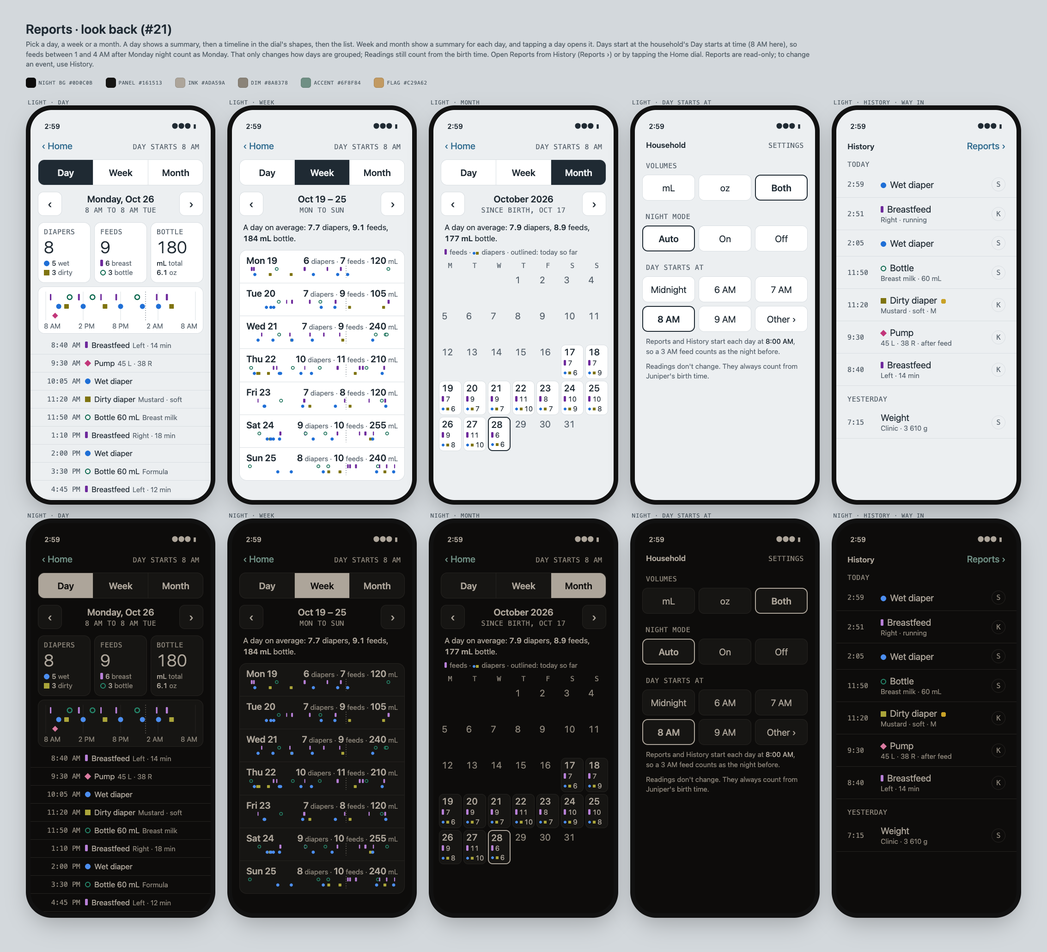
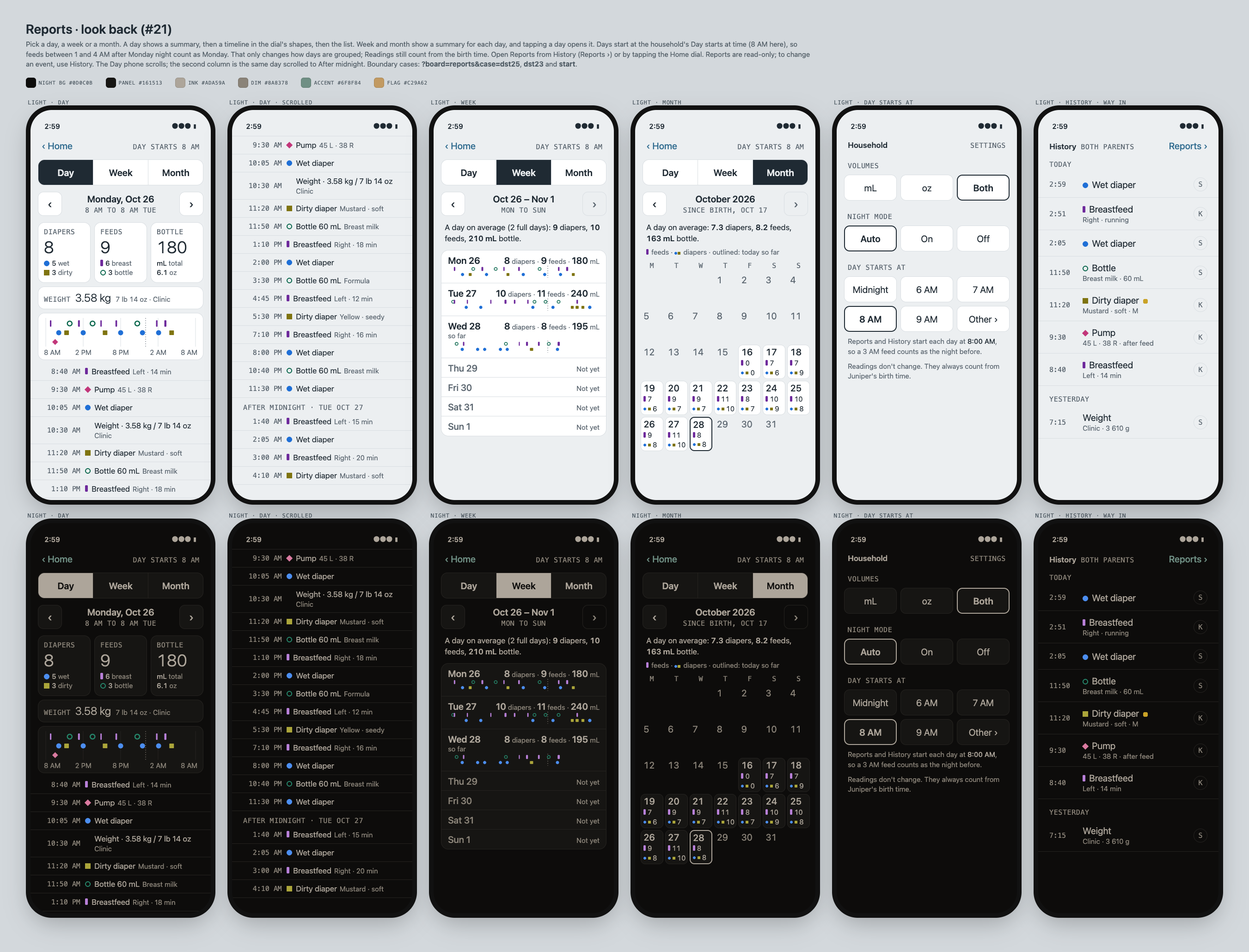
docs/design: Reports review fixes (#21)
- Day phone scrolls; the board adds the same day scrolled to the
  After midnight divider, so the 1:40 and 3:00 AM feeds show.
- Events are real instants in America/New_York and days are cut at
  the day start, so a day can be 23 or 25 hours. ?case=dst25, dst23
  and start show the 25 h day (second 1:30 AM labelled "(2nd)", the
  repeated hour shaded), the 23 h day (no 2 AM), and Day starts at
  8 AM vs Midnight with the 3:00 AM Tuesday feed moving between
  Monday and Tuesday, each in Day and Week.
- Week is Oct 26 – Nov 1, so Monday Oct 26 matches in Day, Week and
  Month. Finished days only count toward the averages.
- Weight: a Day card and a list row, off the timeline (no dial mark),
  not in Week or Month.
- History keeps "Both parents" beside its title. › is disabled on the
  current Week and Month.

Changed region(s): [[0.0, 0.0311, 0.9267, 0.9631], [0.9267, 0.0932, 0.9885, 0.9631]]

diff --git a/docs/design/direction.html b/docs/design/direction.html
@@ -202,6 +202,19 @@ body{background:#D3D8DC;font-family:-apple-system,system-ui,sans-serif;padding:4
 .pairg i{display:inline-block;width:6px;height:6px}
 .note{margin:10px 24px 0;font:400 15px/1.45 -apple-system,system-ui,sans-serif;color:var(--dim)}
 .note b{color:var(--ink);font-weight:500}
+.scr{position:absolute;top:50px;left:0;right:0;bottom:0;overflow-y:auto;scrollbar-width:none;padding-bottom:34px}
+.axis{position:relative;height:20px;margin-top:2px}
+.axis span{position:absolute;transform:translateX(-50%);white-space:nowrap}
+.axis span.l{transform:none;left:0!important}
+.axis span.r{transform:none;left:auto!important;right:0}
+.wcard{display:flex;align-items:baseline;gap:10px;margin:8px 16px 0;padding:10px 12px;background:var(--panel);border:1px solid var(--line);border-radius:14px}
+.wcard b{font:300 24px/1.1 -apple-system,system-ui,sans-serif;white-space:nowrap}
+.wk .h{gap:10px}
+.wk .h .tag{display:block;font:400 15px/1.3 -apple-system,system-ui,sans-serif;color:var(--dim)}
+.wk .fut .h b{color:var(--dim);font-weight:500}
+.rr .t small{display:block;font-size:15px}
+.rr.w .k small{display:block;margin:2px 0 0 20px}
+.rr.hl{box-shadow:inset 0 0 0 2px var(--acc);border-radius:10px}
 </style></head><body>
 <div id="root"></div>
 <script>
@@ -306,7 +319,7 @@ weight:()=>`${sb}${hdrA('Weight','Now · 2:59 AM ›')}
 <div class="keys">${[1,2,3,4,5,6,7,8,9].map(n=>`<div>${n}</div>`).join('')}<div class="ghost">lb/oz</div><div>0</div><div class="ghost">⌫</div></div>
 <div class="go">Log 3 640 g</div>`,
 
-history:()=>`${sb}${hdrA('History','Reports ›')}
+history:()=>`${sb}<div class="top"><b>History <span class="lab" style="margin-left:6px">Both parents</span></b><span class="act">Reports ›</span></div>
 <div class="day lab">Today</div>
 ${[["2:59","wet","Wet diaper","","S"],["2:51","feed","Breastfeed","Right · running","K"],["2:05","wet","Wet diaper","","S"],["11:50","bottle","Bottle","Breast milk · 60 mL","S"],["11:20","dirty","Dirty diaper","Mustard · soft · M","K","#C9A227"],["9:30","pump","Pump","45 L · 38 R · after feed","K"],["8:40","feed","Breastfeed","Left · 14 min","K"]].map(([t,g,k,d,w,c])=>`<div class="ev"><span class="t">${t}</span><span class="k"><i class="g g-${g}" style="margin-right:8px"></i>${k}${c?` <i class="dot" style="background:${c};margin:0 0 0 4px"></i>`:''}${d?`<small>${d}</small>`:''}</span><span class="who">${w}</span></div>`).join('')}
 <div class="day lab">Yesterday</div>
@@ -333,61 +346,105 @@ signin:()=>`${sb}
 <div class="go2">I have an invite</div>
 <div class="go">Sign in with a passkey</div>`,
 };
-// Reports (#21). Fake data. The household day starts at 8 AM, so a report day runs 8:00 AM to 8:00 AM.
-const DS=8, MON=['Jan','Feb','Mar','Apr','May','Jun','Jul','Aug','Sep','Oct','Nov','Dec'], WD=['Sun','Mon','Tue','Wed','Thu','Fri','Sat'];
-const clk=h=>{const c=(h+DS)%24,hh=Math.floor(c),mm=Math.round((c-hh)*60);return`${(hh%12)||12}:${String(mm).padStart(2,'0')} ${hh<12?'AM':'PM'}`};
-const at=t=>{const[h,m]=t.split(':').map(Number);return(h-DS+24)%24+m/60}; // 24 h clock in, hours since day start out
-// Monday Oct 26, by hand: the day in the issue (1-4 AM feeds count as Monday night).
-const MONDAY=[['feed','8:40',14,'Left · 14 min'],['pump','9:30',0,'45 L · 38 R'],['wet','10:05'],['dirty','11:20',0,'Mustard · soft'],['bottle','11:50',60,'Breast milk'],['feed','13:10',18,'Right · 18 min'],['wet','14:00'],['bottle','15:30',60,'Formula'],['feed','16:45',12,'Left · 12 min'],['dirty','17:30',0,'Yellow · seedy'],['feed','19:10',16,'Right · 16 min'],['wet','20:00'],['bottle','22:40',60,'Breast milk'],['wet','23:30'],['feed','1:40',15,'Left · 15 min'],['wet','2:05'],['feed','3:15',20,'Right · 20 min'],['dirty','4:10',0,'Mustard · soft']]
- .map(([ev,t,v,d])=>({ev,h:at(t),v,d}));
+// Reports (#21). Fake data. Every event is a real instant, and days are cut at the household's day start in America/New_York,
+// so a day can be 23 or 25 hours. ?case=dst25|dst23|start shows the boundary cases.
+const TZ='America/New_York',HR=36e5,MON=['Jan','Feb','Mar','Apr','May','Jun','Jul','Aug','Sep','Oct','Nov','Dec'],WD=['Sun','Mon','Tue','Wed','Thu','Fri','Sat'],WDL=['Sunday','Monday','Tuesday','Wednesday','Thursday','Friday','Saturday'];
+const WF=new Intl.DateTimeFormat('en-US',{timeZone:TZ,hourCycle:'h23',year:'numeric',month:'numeric',day:'numeric',hour:'numeric',minute:'numeric'});
+const wall=t=>{const p={};WF.formatToParts(t).forEach(x=>p[x.type]=x.value);const w={y:+p.year,mo:+p.month,d:+p.day,h:+p.hour%24,mi:+p.minute};w.wd=WD[new Date(Date.UTC(w.y,w.mo-1,w.d)).getUTCDay()];return w};
+const off=t=>{const w=wall(t);return Date.UTC(w.y,w.mo-1,w.d,w.h,w.mi)-Math.floor(t/6e4)*6e4};
+// Wall time to instant. A repeated time (clocks back) gives the first one, or the second with n=2. A skipped time moves forward.
+function zoned(y,mo,d,h=0,mi=0,n=1){const u=new Date(Date.UTC(y,mo-1,d));[y,mo,d]=[u.getUTCFullYear(),u.getUTCMonth()+1,u.getUTCDate()];
+ const g=Date.UTC(y,mo-1,d,h,mi),c=[...new Set([off(g-12*HR),off(g+12*HR)])].map(o=>g-o).filter(t=>{const w=wall(t);return w.d===d&&w.h===h&&w.mi===mi}).sort((a,b)=>a-b);
+ return c.length?c[Math.min(n,c.length)-1]:g-off(g-12*HR)}
+const ymd=s=>s.split('-').map(Number);
+const win=(y,mo,d,ds)=>[zoned(y,mo,d,ds),zoned(y,mo,d+1,ds)]; // a report day: [start, next start)
+const ampm=w=>`${(w.h%12)||12}${w.mi?':'+String(w.mi).padStart(2,'0'):''} ${w.h<12?'AM':'PM'}`;
+const clk=t=>{const w=wall(t);return`${(w.h%12)||12}:${String(w.mi).padStart(2,'0')} ${w.h<12?'AM':'PM'}${zoned(w.y,w.mo,w.d,w.h,w.mi)!==t?'<small> (2nd)</small>':''}`};
+const BIRTH=zoned(2026,10,17,6,42);
+let NOW=zoned(2026,10,29,3,0),CASE='';
+// Hand fixtures are written by the 8 AM convention: a time before 8 AM is the next calendar morning. '1:30#2' is the second 1:30.
+const fix=(y,mo,d,L)=>L.map(([ev,tm,v,dd,hl])=>{const[a,n]=tm.split('#'),[h,mi]=a.split(':').map(Number);return{ev,t:zoned(y,mo,h<8?d+1:d,h,mi,+n||1),v,d:dd,hl}});
+// Monday Oct 26: the day in the issue (1-4 AM feeds count as Monday night). The 3:00 AM feed is the one ?case=start follows.
+const HAND={'2026-10-26':fix(2026,10,26,[['feed','8:40',14,'Left · 14 min'],['pump','9:30',83,'45 L · 38 R'],['wet','10:05'],['weight','10:30',3580,'Clinic'],['dirty','11:20',0,'Mustard · soft'],['bottle','11:50',60,'Breast milk'],['feed','13:10',18,'Right · 18 min'],['wet','14:00'],['bottle','15:30',60,'Formula'],['feed','16:45',12,'Left · 12 min'],['dirty','17:30',0,'Yellow · seedy'],['feed','19:10',16,'Right · 16 min'],['wet','20:00'],['bottle','22:40',60,'Breast milk'],['wet','23:30'],['feed','1:40',15,'Left · 15 min'],['wet','2:05'],['feed','3:00',20,'Right · 20 min',1],['dirty','4:10',0,'Mustard · soft']]),
+// Sat Oct 31: clocks go back at 2 AM Sunday, so this day is 25 h and 1:30 AM happens twice.
+'2026-10-31':fix(2026,10,31,[['feed','8:20',16,'Left · 16 min'],['wet','9:40'],['bottle','11:00',60,'Breast milk'],['feed','12:15',14,'Right · 14 min'],['dirty','13:30',0,'Mustard · seedy'],['feed','15:00',18,'Left · 18 min'],['wet','16:10'],['bottle','17:45',75,'Formula'],['feed','19:20',15,'Right · 15 min'],['wet','20:30'],['feed','22:10',17,'Left · 17 min'],['wet','23:40'],['feed','1:30',15,'Right · 15 min'],['wet','1:30#2'],['feed','3:40',16,'Left · 16 min'],['dirty','5:30',0,'Yellow · soft'],['bottle','6:50',60,'Breast milk']]),
+// Sat Mar 13 2027: clocks go forward at 2 AM Sunday, so this day is 23 h and there is no 2 AM hour.
+'2027-03-13':fix(2027,3,13,[['bottle','8:10',150,'Breast milk'],['wet','9:00'],['feed','11:30',12,'Left · 12 min'],['dirty','12:40',0,'Brown · soft'],['bottle','14:00',180,'Formula'],['wet','15:10'],['feed','17:30',10,'Right · 10 min'],['wet','18:20'],['bottle','20:00',180,'Formula'],['wet','21:10'],['feed','23:30',14,'Left · 14 min'],['feed','1:50',10,'Right · 10 min'],['wet','3:10'],['bottle','6:30',150,'Breast milk'],['wet','7:30']])};
 function rng(seed){return()=>{seed|=0;seed=seed+0x6D2B79F5|0;let t=Math.imul(seed^seed>>>15,1|seed);t=t+Math.imul(t^t>>>7,61|t)^t;return((t^t>>>14)>>>0)/4294967296}}
-function dayEvents(d){ // d = day of October 2026
- if(d===26)return MONDAY; if(d<17||d>28)return null;
- const r=rng(d*7919),n=(a,b)=>a+Math.floor(r()*(b-a+1)),end=d===28?19:24,out=[];
- const put=(ev,k,f)=>{for(let i=0;i<k;i++){const h=r()*end;out.push({ev,h,...f()})}};
- put('feed',Math.round(n(5,7)*end/24),()=>({v:n(10,22)}));put('bottle',Math.round(n(2,4)*end/24),()=>({v:[45,60,60,75][n(0,3)]}));
- put('wet',Math.round((d<22?n(3,5):n(5,7))*end/24),()=>({}));put('dirty',Math.round(n(2,4)*end/24),()=>({}));
- if(r()<.6)put('pump',1,()=>({v:n(60,90)}));
- return out.sort((a,b)=>a.h-b.h)}
-const tally=E=>{const c={feed:0,bottle:0,wet:0,dirty:0,pump:0,ml:0,pml:0};E.forEach(e=>{c[e.ev]++;if(e.ev==='bottle')c.ml+=e.v;if(e.ev==='pump')c.pml+=e.v||83});return c};
-// Timeline in the dial's shapes. Feed bars (length = duration) and bottle rings share the top lane, like the dial's outer ring; wet dots and dirty squares share the next, like its inner ring. Pump gets its own lane.
-function strip(E,W,mini){const H=mini?26:62,x=h=>4+h/24*(W-8),y=mini?{feed:7,bottle:7,wet:19,dirty:19,pump:19}:{feed:12,bottle:12,wet:32,dirty:32,pump:52};
- let s=`<line x1="${x(16)}" y1="0" x2="${x(16)}" y2="${H}" stroke="var(--dim)" stroke-width="1" stroke-dasharray="2 3"/>`;
- if(!mini)[0,6,12,18,24].forEach(h=>s+=`<line x1="${x(h)}" y1="0" x2="${x(h)}" y2="${H}" stroke="var(--line)" stroke-width="1"/>`);
+function authored(y,mo,d){const u=new Date(Date.UTC(y,mo-1,d));[y,mo,d]=[u.getUTCFullYear(),u.getUTCMonth()+1,u.getUTCDate()];
+ const k=`${y}-${String(mo).padStart(2,'0')}-${String(d).padStart(2,'0')}`;if(HAND[k])return HAND[k];
+ const[s,e]=win(y,mo,d,8);if(e<=BIRTH)return[];const old=y>2026;
+ const r=rng(d*7919+((y-2026)*12+mo-10)*104729),n=(a,b)=>a+Math.floor(r()*(b-a+1)),out=[];
+ const put=(ev,k,f)=>{for(let i=0;i<k;i++){const t=s+Math.floor(r()*(e-s)/6e4)*6e4;out.push({ev,t,...f()})}};
+ put('feed',old?n(3,5):n(5,7),()=>{const v=n(10,22);return{v,d:`${v%2?'Left':'Right'} · ${v} min`}});put('bottle',old?n(3,5):n(2,4),()=>{const v=old?[150,180,180,210][n(0,3)]:[45,60,60,75][n(0,3)];return{v,d:v%60?'Formula':'Breast milk'}});
+ put('wet',d<22&&!old?n(3,5):n(5,7),()=>({}));put('dirty',old?n(1,2):n(2,4),()=>({}));
+ if(r()<.6)put('pump',1,()=>({v:n(60,90)}));return out}
+// Events in [s,e), whichever day they were written under, logged before now and after birth.
+const between=(s,e)=>{const a=wall(s),out=[];for(let i=-1;i<=Math.ceil((e-s)/864e5)+1;i++)out.push(...authored(a.y,a.mo,a.d+i));return out.filter(x=>x.t>=s&&x.t<e&&x.t<NOW&&x.t>=BIRTH).sort((p,q)=>p.t-q.t)};
+const tally=E=>{const c={feed:0,bottle:0,wet:0,dirty:0,pump:0,ml:0,pml:0,weight:null};E.forEach(e=>{if(e.ev==='weight'){c.weight=e;return}c[e.ev]++;if(e.ev==='bottle')c.ml+=e.v;if(e.ev==='pump')c.pml+=e.v});return c};
+const kg=g=>(g/1000).toFixed(2),lbOz=g=>{let o=Math.round(g/28.3495),l=Math.floor(o/16);return`${l} lb ${o-l*16} oz`};
+const hrs=(s,e)=>Math.round((e-s)/HR);
+const shift=(s,e)=>{for(let t=s+HR;t<e;t+=HR)if(off(t)!==off(s))return t;return 0}; // when the clocks changed, if they did
+const midnight=(s,e)=>{const w=wall(s),m=zoned(w.y,w.mo,w.d+1,0);return m>s&&m<e?m:0};
+// Timeline in the dial's shapes. x is real elapsed time, so a 25 h day has 25 equal hours. Feed bars (length = duration) and bottle rings
+// share the top lane, like the dial's outer ring; wet dots and dirty squares share the next, like its inner ring. Pump gets its own lane.
+// Weight has no dial mark, so it stays off the timeline and shows as a card and a list row.
+function strip(E,s,e,ds,W,mini){const H=mini?26:62,x=t=>4+(t-s)/(e-s)*(W-8),y=mini?{feed:7,bottle:7,wet:19,dirty:19,pump:19}:{feed:12,bottle:12,wet:32,dirty:32,pump:52};
+ let o='';const m=midnight(s,e),sh=shift(s,e),back=sh&&off(sh)<off(s);
+ if(sh&&back)o+=`<rect x="${x(sh)}" y="0" width="${x(sh+HR)-x(sh)}" height="${H}" fill="var(--band)"/>`;
+ if(m)o+=`<line x1="${x(m)}" y1="0" x2="${x(m)}" y2="${H}" stroke="var(--dim)" stroke-width="1" stroke-dasharray="2 3"/>`;
+ const sw=wall(s),ticks=[0,6,12,18].map(k=>zoned(sw.y,sw.mo,sw.d+Math.floor((ds+k)/24),(ds+k)%24)).concat(e);
+ if(!mini)ticks.forEach(t=>o+=`<line x1="${x(t)}" y1="0" x2="${x(t)}" y2="${H}" stroke="var(--line)" stroke-width="1"/>`);
+ if(sh&&!back&&!mini)o+=`<line x1="${x(sh)}" y1="0" x2="${x(sh)}" y2="${H}" stroke="var(--ink)" stroke-width="1.5"/>`;
  const k=mini?.62:1;
- E.forEach(e=>{const X=x(e.h),Y=y[e.ev];
-  if(e.ev==='feed')s+=`<rect x="${X}" y="${Y-7*k}" width="${Math.max(3*k,e.v/60/24*(W-8))}" height="${14*k}" rx="1.5" fill="var(--feed)"/>`;
-  if(e.ev==='bottle')s+=`<circle cx="${X}" cy="${Y}" r="${5*k}" fill="var(--panel)" stroke="var(--bottle)" stroke-width="${2.5*k}"/>`;
-  if(e.ev==='wet')s+=`<circle cx="${X}" cy="${Y}" r="${5.5*k}" fill="var(--wet)"/>`;
-  if(e.ev==='dirty')s+=`<rect x="${X-5*k}" y="${Y-5*k}" width="${10*k}" height="${10*k}" rx="1" fill="var(--dirty)"/>`;
-  if(e.ev==='pump'&&!mini)s+=`<rect x="${X-4.5}" y="${Y-4.5}" width="9" height="9" fill="var(--pump)" transform="rotate(45 ${X} ${Y})"/>`});
- const ax=mini?'':`<div style="display:flex;justify-content:space-between;margin-top:2px" class="sub">${['8 AM','2 PM','8 PM','2 AM','8 AM'].map(l=>`<span>${l}</span>`).join('')}</div>`;
- return `<svg viewBox="0 0 ${W} ${H}" height="${H}">${s}</svg>${ax}`}
-const rHdr=r=>hdrA('‹ Home',r,1).replace(`<span class="act">${r}</span>`,`<span class="lab">${r}</span>`);
+ E.forEach(ev=>{const X=x(ev.t),Y=y[ev.ev];
+  if(ev.ev==='feed')o+=`<rect x="${X}" y="${Y-7*k}" width="${Math.max(3*k,ev.v*6e4/(e-s)*(W-8))}" height="${14*k}" rx="1.5" fill="var(--feed)"/>`;
+  if(ev.ev==='bottle')o+=`<circle cx="${X}" cy="${Y}" r="${5*k}" fill="var(--panel)" stroke="var(--bottle)" stroke-width="${2.5*k}"/>`;
+  if(ev.ev==='wet')o+=`<circle cx="${X}" cy="${Y}" r="${5.5*k}" fill="var(--wet)"/>`;
+  if(ev.ev==='dirty')o+=`<rect x="${X-5*k}" y="${Y-5*k}" width="${10*k}" height="${10*k}" rx="1" fill="var(--dirty)"/>`;
+  if(ev.ev==='pump'&&!mini)o+=`<rect x="${X-4.5}" y="${Y-4.5}" width="9" height="9" fill="var(--pump)" transform="rotate(45 ${X} ${Y})"/>`});
+ const ax=mini?'':`<div class="axis sub">${ticks.map((t,i)=>`<span style="left:${x(t)/W*100}%" class="${i?i==4?'r':'':'l'}">${ampm(wall(t))}</span>`).join('')}</div>`;
+ return `<svg viewBox="0 0 ${W} ${H}" height="${H}">${o}</svg>${ax}`}
+const dsLab=ds=>ds?`Day starts ${ds} AM`:'Day starts midnight';
+const rHdr=ds=>hdrA('‹ Home',dsLab(ds),1).replace(`<span class="act">${dsLab(ds)}</span>`,`<span class="lab">${dsLab(ds)}</span>`);
 const seg3=on=>`<div class="seg">${['Day','Week','Month'].map(t=>`<div class="${t===on?'on':''}">${t}</div>`).join('')}</div>`;
 const step=(t,sub,next=true)=>`<div class="rp-step"><div class="arr">‹</div><div class="d"><b>${t}</b><span class="lab">${sub}</span></div><div class="arr ${next?'':'off'}">›</div></div>`;
 const per=(v,n)=>(Math.round(v/n*10)/10).toString();
+const today=ds=>{const w=wall(NOW);return w.h<ds?[w.y,w.mo,w.d-1]:[w.y,w.mo,w.d]};
+// The Day phone scrolls. data-scroll picks a resting position for the static captures.
+const scr=(body,at)=>`<div class="scr" data-scroll="${at||''}">${body}</div>`;
 Object.assign(S,{
-rDay:()=>{const c=tally(MONDAY);let after=false;
- return `${sb}${rHdr('Day starts 8 AM')}${seg3('Day')}${step('Monday, Oct 26','8 AM to 8 AM Tue')}
+rDay:(date='2026-10-26',ds='8',at='')=>{ds=+ds;const[y,mo,d]=ymd(date),[s,e]=win(y,mo,d,ds),E=between(s,e),c=tally(E),m=midnight(s,e),sh=shift(s,e),L=hrs(s,e),ew=wall(e),sw=wall(s);
+ const sub=(ds?`${ampm(sw)} to ${ampm(ew)} ${ew.wd}`:'Midnight to midnight')+(L!==24?` · ${L} h`:'');
+ let after=false,shown=false;
+ return `${sb}`+scr(`${rHdr(ds)}${seg3('Day')}${step(`${WDL[new Date(Date.UTC(y,mo-1,d)).getUTCDay()]}, ${MON[mo-1]} ${d}`,sub)}
 <div class="sum"><div><span class="lab">Diapers</span><div class="n">${c.wet+c.dirty}</div><div class="sub"><i class="g g-wet"></i><b>${c.wet}</b> wet<br><i class="g g-dirty"></i><b>${c.dirty}</b> dirty</div></div>
 <div><span class="lab">Feeds</span><div class="n">${c.feed+c.bottle}</div><div class="sub"><i class="g g-feed"></i><b>${c.feed}</b> breast<br><i class="g g-bottle"></i><b>${c.bottle}</b> bottle</div></div>
 <div><span class="lab">Bottle</span><div class="n">${c.ml}</div><div class="sub"><b>mL</b> total<br><b>${(c.ml/29.57).toFixed(1)}</b> oz</div></div></div>
-<div class="strip">${strip(MONDAY,332)}</div>
-<div style="margin-top:6px">${MONDAY.map(e=>{let pre='';if(!after&&e.h>=16){after=true;pre=`<div class="after lab">After midnight · Tue Oct 27</div>`}
- const name={feed:'Breastfeed',bottle:`Bottle ${e.v} mL`,wet:'Wet diaper',dirty:'Dirty diaper',pump:'Pump'}[e.ev];
- return pre+`<div class="rr"><span class="t">${clk(e.h)}</span><span class="k"><i class="g g-${e.ev}"></i>${name}${e.d?`<small>${e.d}</small>`:''}</span></div>`}).join('')}</div>`},
-rWeek:()=>{const days=[19,20,21,22,23,24,25].map(d=>({d,E:dayEvents(d)})),T=days.map(x=>tally(x.E)),sum=k=>T.reduce((a,c)=>a+c[k],0);
- return `${sb}${rHdr('Day starts 8 AM')}${seg3('Week')}${step('Oct 19 – 25','Mon to Sun')}
-<div class="avg">A day on average: <b>${per(sum('wet')+sum('dirty'),7)}</b> diapers, <b>${per(sum('feed')+sum('bottle'),7)}</b> feeds, <b>${Math.round(sum('ml')/7)} mL</b> bottle.</div>
-<div class="wk">${days.map(({d,E},i)=>{const c=T[i];return`<div><div class="h"><b>${WD[new Date(2026,9,d).getDay()]} ${d}</b><span class="sub"><b>${c.wet+c.dirty}</b> diapers · <b>${c.feed+c.bottle}</b> feeds · <b>${c.ml}</b> mL</span></div>${strip(E,326,1)}</div>`}).join('')}</div>`},
-rMonth:()=>{const lead=(new Date(2026,9,1).getDay()+6)%7,cells=[];
+${c.weight?`<div class="wcard"><span class="lab">Weight</span><b class="num">${kg(c.weight.v)} kg</b><span class="sub">${lbOz(c.weight.v)} · ${c.weight.d}</span></div>`:''}
+<div class="strip">${strip(E,s,e,ds,332)}</div>
+${sh?`<div class="note">${off(sh)<off(s)?'Clocks went back at 2 AM, so 1 AM to 2 AM happened twice. The shaded hour is the second one.':'Clocks went forward at 2 AM (solid line). There was no 2 AM hour.'}</div>`:''}
+<div style="margin-top:6px">${E.map(ev=>{let pre='';const mw=m&&wall(m);
+ if(m&&!after&&ev.t>=m){after=true;pre=`<div class="after lab">After midnight · ${mw.wd} ${MON[mw.mo-1]} ${mw.d}</div>`}
+ if(sh&&!shown&&ev.t>=sh){shown=true;pre+=`<div class="after lab">${off(sh)<off(s)?'Clocks went back · 1 AM again':'Clocks went forward · no 2 AM'}</div>`}
+ const name={feed:'Breastfeed',bottle:`Bottle ${ev.v} mL`,wet:'Wet diaper',dirty:'Dirty diaper',pump:'Pump',weight:`Weight · ${ev.v&&kg(ev.v)} kg / ${ev.v&&lbOz(ev.v)}`}[ev.ev];
+ return pre+`<div class="rr${ev.hl&&CASE==='start'?' hl':''}${ev.ev==='weight'?' w':''}"><span class="t">${clk(ev.t)}</span><span class="k"><i class="g g-${ev.ev}"></i>${name}${ev.d?`<small>${ev.d}</small>`:''}</span></div>`}).join('')}</div>`,at)},
+rWeek:(date='2026-10-26',ds='8')=>{ds=+ds;const[y,mo,d]=ymd(date),days=[0,1,2,3,4,5,6].map(i=>{const[s,e]=win(y,mo,d+i,ds),w=wall(zoned(y,mo,d+i,12));return{w,s,e,E:between(s,e)}}),
+ done=days.filter(x=>x.e<=NOW),T=done.map(x=>tally(x.E)),sum=k=>T.reduce((a,c)=>a+c[k],0),n=T.length,l=days[6].w;
+ const range=`${MON[mo-1]} ${d} – ${l.mo!==mo?MON[l.mo-1]+' ':''}${l.d}`;
+ return `${sb}`+scr(`${rHdr(ds)}${seg3('Week')}${step(range,'Mon to Sun',days[6].e<=NOW)}
+<div class="avg">A day on average${n<7?` (${n} full ${n==1?'day':'days'})`:''}: <b>${per(sum('wet')+sum('dirty'),n)}</b> diapers, <b>${per(sum('feed')+sum('bottle'),n)}</b> feeds, <b>${Math.round(sum('ml')/n)} mL</b> bottle.</div>
+<div class="wk">${days.map(({w,s,e,E})=>{const c=tally(E),L=hrs(s,e),lab=`${w.wd} ${w.d}`;
+ if(s>=NOW)return`<div class="fut"><div class="h"><b>${lab}</b><span class="sub">Not yet</span></div></div>`;
+ const tag=[e>NOW?'so far':'',L!==24?`${L} h`:''].filter(Boolean).join(' · ');
+ return`<div><div class="h"><b>${lab}${tag?`<span class="tag">${tag}</span>`:''}</b><span class="sub"><b>${c.wet+c.dirty}</b> diapers · <b>${c.feed+c.bottle}</b> feeds · <b>${c.ml}</b> mL</span></div>${strip(E,s,e,ds,326,1)}</div>`}).join('')}</div>`)},
+rMonth:()=>{const lead=(new Date(2026,9,1).getDay()+6)%7,cells=[],[ty,tm,td]=today(8);
  for(let i=0;i<lead;i++)cells.push('<div class="c x"></div>');
- const T=[];for(let d=1;d<=31;d++){const E=dayEvents(d);if(!E){cells.push(`<div class="c x"><b>${d}</b></div>`);continue}
-  const c=tally(E);if(d<28)T.push(c);
-  cells.push(`<div class="c ${d===28?'today':''}"><b>${d}</b><span><i class="g g-feed" style="height:12px;width:5px"></i>${c.feed+c.bottle}</span><span><span class="pairg"><i style="background:var(--wet);border-radius:50%"></i><i style="background:var(--dirty)"></i></span>${c.wet+c.dirty}</span></div>`)}
+ const T=[];for(let d=1;d<=31;d++){const[s,e]=win(2026,10,d,8);if(e<=BIRTH||s>=NOW){cells.push(`<div class="c x"><b>${d}</b></div>`);continue}
+  const c=tally(between(s,e));if(e<=NOW)T.push(c);const now=ty===2026&&tm===10&&td===d;
+  cells.push(`<div class="c ${now?'today':''}"><b>${d}</b><span><i class="g g-feed" style="height:12px;width:5px"></i>${c.feed+c.bottle}</span><span><span class="pairg"><i style="background:var(--wet);border-radius:50%"></i><i style="background:var(--dirty)"></i></span>${c.wet+c.dirty}</span></div>`)}
  const sum=k=>T.reduce((a,c)=>a+c[k],0),n=T.length;
- return `${sb}${rHdr('Day starts 8 AM')}${seg3('Month')}${step('October 2026','Since birth, Oct 17',true)}
+ return `${sb}${rHdr(8)}${seg3('Month')}${step('October 2026','Since birth, Oct 17',false)}
 <div class="avg">A day on average: <b>${per(sum('wet')+sum('dirty'),n)}</b> diapers, <b>${per(sum('feed')+sum('bottle'),n)}</b> feeds, <b>${Math.round(sum('ml')/n)} mL</b> bottle.</div>
 <div class="note" style="margin-top:6px"><i class="g g-feed" style="height:12px;width:5px;margin-right:6px"></i>feeds · <span class="pairg" style="margin-right:6px"><i style="background:var(--wet);border-radius:50%"></i><i style="background:var(--dirty)"></i></span>diapers · outlined: today so far</div>
 <div class="cal">${['M','T','W','T','F','S','S'].map(w=>`<div class="wd">${w}</div>`).join('')}${cells.join('')}</div>`},
@@ -404,10 +461,19 @@ function gauges(){return [["Wet diapers","7",[50,100],72,"6+ from day 5"],["Dirt
 const BOARDS={
  home:{h:"Home · glanceable (#20)",s:"Owner feedback after real-phone use: the dial read as black and white, the labels were too small, and the buttons should say when each thing was last logged. Each event type now has its own saturated colour and its own shape (feed bar, bottle ring, wet dot, dirty square), so the dial still reads without colour. Night colours are outlines and marks, never fills, and none is brighter than the night text. Buttons carry a coloured outline, the time since the last log, and the last side for Feed and Pump. Anything tappable is 20 px; no text is under 15 px, and all text passes 4.5:1.",cols:[["Home · idle","home","home"],["Home · feeding","homeFeeding","homeFeeding"]]},
  core:{h:"Instrument · core screens",cols:[["Home · 24 h dial","home","home"],["Breastfeed timer","feed","feed"],["Diaper 1 · color","diaperColor","diaperColor"],["Diaper 2 · details","diaperDetails","diaperDetails"],["Bottle","bottle","bottle"],["Readings","readingsFlag","readingsOk"],["Why?","why","why"]]},
- reports:{h:"Reports · look back (#21)",s:"Pick a day, a week or a month. A day shows a summary, then a timeline in the dial's shapes, then the list. Week and month show a summary for each day, and tapping a day opens it. Days start at the household's Day starts at time (8 AM here), so feeds between 1 and 4 AM after Monday night count as Monday. That only changes how days are grouped; Readings still count from the birth time. Open Reports from History (Reports ›) or by tapping the Home dial. Reports are read-only; to change an event, use History.",cols:[["Day","rDay","rDay"],["Week","rWeek","rWeek"],["Month","rMonth","rMonth"],["Day starts at","rStart","rStart"],["History · way in","history","history"]]},
+ reports:{h:"Reports · look back (#21)",s:"Pick a day, a week or a month. A day shows a summary, then a timeline in the dial's shapes, then the list. Week and month show a summary for each day, and tapping a day opens it. Days start at the household's Day starts at time (8 AM here), so feeds between 1 and 4 AM after Monday night count as Monday. That only changes how days are grouped; Readings still count from the birth time. Open Reports from History (Reports ›) or by tapping the Home dial. Reports are read-only; to change an event, use History. The Day phone scrolls; the second column is the same day scrolled to After midnight. Boundary cases: <b>?board=reports&amp;case=dst25</b>, <b>dst23</b> and <b>start</b>.",cols:[["Day","rDay","rDay"],["Day · scrolled","rDay|2026-10-26|8|after","rDay|2026-10-26|8|after"],["Week","rWeek","rWeek"],["Month","rMonth","rMonth"],["Day starts at","rStart","rStart"],["History · way in","history","history"]]},
  rest:{h:"Instrument · remaining screens",cols:[["Pump","pump","pump"],["Weight","weight","weight"],["History","history","history"],["Add a baby","addBaby","addBaby"],["Household","settings","settings"],["Sign in","signin","signin"]]},
 };
-const Q=new URLSearchParams(location.search), which=Q.get('board')||'core', B=BOARDS[which];
+// Reports boundary cases. Each is its own fixture date, with its own "now".
+const CASES={
+ dst25:{now:zoned(2026,11,2,12),h:"Reports · 25-hour day (#21)",s:"Clocks go back at 2 AM on Sunday Nov 1, so with Day starts at 8 AM, Saturday Oct 31 runs 8 AM Saturday to 8 AM Sunday: 25 hours. The timeline gives every real hour the same width and shades the repeated hour. In the list the second 1:30 AM reads \"1:30 AM (2nd)\". In Week, the row says 25 h and its mini timeline spans its own 25 hours. Viewed on Mon Nov 2, so the whole week has happened; Mon Oct 26 is the same day as on the main board.",cols:[["Day · Sat Oct 31","rDay|2026-10-31|8","rDay|2026-10-31|8"],["Day · repeated hour","rDay|2026-10-31|8|after","rDay|2026-10-31|8|after"],["Week · Oct 26 – Nov 1","rWeek|2026-10-26|8","rWeek|2026-10-26|8"]]},
+ dst23:{now:zoned(2027,3,15,12),h:"Reports · 23-hour day (#21)",s:"Clocks go forward at 2 AM on Sunday Mar 14, 2027, so Saturday Mar 13 runs 8 AM to 8 AM Sunday: 23 hours. There is no 2 AM hour: a 1:50 AM feed is followed 20 minutes later by a 3:10 AM diaper. The timeline marks the jump with a solid line, and the axis tick that would be 2 AM reads 3 AM.",cols:[["Day · Sat Mar 13","rDay|2027-03-13|8","rDay|2027-03-13|8"],["Day · skipped hour","rDay|2027-03-13|8|after","rDay|2027-03-13|8|after"],["Week · Mar 8 – 14","rWeek|2027-03-08|8","rWeek|2027-03-08|8"]]},
+ start:{h:"Reports · Day starts at, 8 AM vs midnight (#21)",s:"The outlined row is the 3:00 AM feed on Tuesday Oct 27. With Day starts at 8 AM it belongs to Monday Oct 26, under After midnight. With Midnight it belongs to Tuesday, and Monday ends at 11:59 PM without it. Week moves the same events between rows: Monday loses its early-morning events and gains Sunday night's. Readings are not affected by this setting.",cols:[["Day · 8 AM · Mon Oct 26","rDay|2026-10-26|8|hl","rDay|2026-10-26|8|hl"],["Day · midnight · Mon Oct 26","rDay|2026-10-26|0|end","rDay|2026-10-26|0|end"],["Day · midnight · Tue Oct 27","rDay|2026-10-27|0|hl","rDay|2026-10-27|0|hl"],["Week · 8 AM","rWeek|2026-10-26|8","rWeek|2026-10-26|8"],["Week · midnight","rWeek|2026-10-26|0","rWeek|2026-10-26|0"]]},
+};
+const Q=new URLSearchParams(location.search), which=Q.get('board')||'core';
+let B=BOARDS[which];
+if(which=='reports'&&CASES[Q.get('case')]){CASE=Q.get('case');const C=CASES[CASE];if(C.now)NOW=C.now;B={...B,...C}}
+const view=k=>{const[n,...a]=k.split('|');return S[n](...a)};
 const pal=which=='home'
  ?[["Feed","#6E2A9C","#B880D8"],["Bottle","#08664C","#25876B"],["Wet","#1F6FD6","#4C8EF0"],["Dirty","#7F7410","#ABA53A"],["Pump","#C2367A","#DA7AA0"]]
  :[["Night bg","#0D0C0B"],["Panel","#161513"],["Ink","#ADA59A"],["Dim","#8A8378"],["Accent","#6F8F84"],["Flag","#C29A62"]];
@@ -416,5 +482,8 @@ if(Q.get('cvd')=='deut'){document.body.insertAdjacentHTML('beforeend',`<svg widt
 document.getElementById('root').innerHTML=`<div class="board-h">${B.h}</div>
 <div class="board-s">${B.s||`Direction C, revised. Kept: the 24-hour dial and the instrument feel. Night mode is now graphite instead of red: warm near-black, dim stone text, a muted sage accent, and nothing brighter than it needs to be. Every screen does one job. Diapers take two steps: tap a color to log, add details only if you want. Wet still logs in one tap from home. Stool swatches stay true-color in every mode.`}${Q.get('cvd')=='deut'?' <b>Deuteranopia simulation.</b>':''}</div>
 <div class="palette">${pal.map(([n,c,c2])=>`<div><i style="background:${c}"></i>${c2?`<i style="background:${c2}"></i>`:''}${n} ${c}${c2?` · ${c2}`:''}</div>`).join('')}</div>`+
-['light','night'].map(m=>`<div class="row">${B.cols.map(([c,l,n])=>`<div><div class="cap">${m} · ${c}${l!==n&&m=='night'?' · all clear':l!==n?' · flag':''}</div><div class="phone ${m}">${S[m=='light'?l:n]()}</div></div>`).join('')}</div>`).join('');
+['light','night'].map(m=>`<div class="row">${B.cols.map(([c,l,n])=>`<div><div class="cap">${m} · ${c}${l!==n&&m=='night'?' · all clear':l!==n?' · flag':''}</div><div class="phone ${m}">${view(m=='light'?l:n)}</div></div>`).join('')}</div>`).join('');
+// Rest the scrolling phones where the capture needs them.
+document.querySelectorAll('.scr[data-scroll]').forEach(el=>{const at=el.dataset.scroll,t=at==='after'?el.querySelector('.after'):at==='hl'?el.querySelector('.rr.hl'):null;
+ if(at==='end')el.scrollTop=el.scrollHeight;else if(t)el.scrollTop=t.offsetTop-(at==='hl'?300:180)});
 </script></body></html>

diff --git a/docs/design/README.md b/docs/design/README.md
@@ -9,7 +9,9 @@ This folder holds the merged direction. It is the reference for the #6 UI.
 - `board-core.png`, `board-rest.png`: renders of the two boards.
 - `board-home.png`, `board-home-deut.png`: the glanceable Home (#20), and the
   same board through a deuteranopia simulation (`?board=home&cvd=deut`).
-- `board-reports.png`: Reports (#21), from `?board=reports`.
+- `board-reports.png`: Reports (#21), from `?board=reports`. The boundary
+  cases are `board-reports-dst25.png`, `board-reports-dst23.png` and
+  `board-reports-start.png`, from `?board=reports&case=dst25|dst23|start`.
 - `explorations/`: the three original directions (A Ledger, B Nest, C Darkroom),
   kept for the record.
 
@@ -185,25 +187,32 @@ History.
 
 - **Way in.** "Reports ›" in the History header, and a tap on the Home dial
   (the dial is already the last 24 hours). The Home chips stay as they are,
-  because a fourth chip at 20 px doesn't fit.
+  because a fourth chip at 20 px doesn't fit. History keeps "Both parents"
+  beside its title.
 - **Day, Week, Month.** A segmented control, then a stepper: ‹, the period
-  ("Monday, Oct 26", "Oct 19 – 25", "October 2026"), ›. Tapping the period opens
-  a date picker. › is disabled on the current period.
+  ("Monday, Oct 26", "Oct 26 – Nov 1", "October 2026"), ›. Tapping the period
+  opens a date picker. › is disabled on the current period.
 - **Day.** Three summary cards: Diapers (wet and dirty), Feeds (breast and
-  bottle) and Bottle (mL total and oz). Then a timeline from day start to day
-  start, in the dial's shapes: feed bars (as long as the feed) and bottle rings
-  on the top lane, wet dots and dirty squares on the next, pump diamonds on the
-  last. A dotted line marks midnight. Then the list, oldest first, with an
-  "After midnight · Tue Oct 27" divider. List rows are 17 px because they are
-  not tappable.
-- **Week.** One line of daily averages, then a row for each day: the day
-  (20 px, opens the Day view), its counts, and a mini timeline.
+  bottle) and Bottle (mL total and oz). If a weight was logged that day, a
+  Weight card follows ("3.58 kg", then "7 lb 14 oz · Clinic"). Then a
+  timeline from day start to day start, in the dial's shapes: feed bars (as long
+  as the feed) and bottle rings on the top lane, wet dots and dirty squares on
+  the next, pump diamonds on the last. A dotted line marks midnight. Then the
+  list, oldest first, with an "After midnight · Tue Oct 27" divider. List rows
+  are 17 px because they are not tappable. The Day screen scrolls; the board
+  shows it at the top and scrolled to the divider.
+- **Weight** has no mark on the dial, so it stays off the timeline. It shows as
+  the Day card and a list row, "Weight · 3.58 kg / 7 lb 14 oz", with where it
+  was taken under it. Week and Month don't show weight.
+- **Week.** One line of daily averages over the days that have finished, then
+  a row for each day: the day (20 px, opens the Day view), its counts, and a
+  mini timeline. Today says "so far"; later days say "Not yet" and don't open.
 - **Month.** Daily averages, then a calendar. Each day shows feeds (bar) and
   diapers (dot and square) and opens the Day view. Days before birth and future
   days are blank. Today is outlined and counts only so far.
 - **Counts match the timeline.** Every count is computed from the same events
-  the timeline draws. In the mockup, the Monday in the Day view is the same
-  Monday in the Week and Month data.
+  the timeline draws. In the mockup, Monday Oct 26 is the same day in the Day
+  view, the first Week row and the Month cell: 8 diapers, 9 feeds, 180 mL.
 - **Units** follow the mL/oz setting. "Both" shows mL first.
 
 ### Day starts at
@@ -213,11 +222,29 @@ History.
 - It moves the day boundary in Reports and in History's day headings. With
   8 AM, a 3 AM feed belongs to the night before.
 - It never changes Readings. Those count day-of-life windows from the birth
-  time (#11), and the screen says so under the setting.
-- The Day view says what its window is: "8 AM to 8 AM Tue". On a daylight-
-  saving day the window is 23 or 25 hours, and the subtitle adds it:
-  "8 AM to 8 AM Mon · 25 h".
+  time (#11), and the screen says so under the setting. The implementation
+  needs #21's test that Readings are identical before and after a change.
+- The Day view says what its window is: "8 AM to 8 AM Tue", or "Midnight to
+  midnight". In `case=start`, the 3:00 AM Tuesday feed is in Monday with 8 AM
+  and in Tuesday with Midnight, and the Week rows move with it.
 - Until household sync (#5) lands, the setting is per phone (issue #21).
+
+### Daylight saving
+
+Days are cut at the day start in the household's time zone, not every 24
+hours, so a day can be 23 or 25 hours. The mockup builds every event from a
+real date in America/New_York.
+
+- The Day subtitle adds the length: "8 AM to 8 AM Sun · 25 h". The Week row
+  says "25 h" under the day, and its mini timeline spans that day's own hours.
+- The timeline gives every real hour the same width, so a 25 h day draws 25
+  hours and its axis ticks follow the clock.
+- **Clocks back (25 h, `case=dst25`).** The repeated hour is shaded on the
+  timeline, a note under it says what happened, and the list has a "Clocks went
+  back · 1 AM again" divider. A time in the second hour reads "1:30 AM (2nd)".
+- **Clocks forward (23 h, `case=dst23`).** A solid line marks the jump, the
+  note says there was no 2 AM hour, and the list has a "Clocks went forward ·
+  no 2 AM" divider. The axis tick that would be 2 AM reads 3 AM.
 
 ## Flows
 
@@ -236,7 +263,8 @@ bottle, readings (flag and all-clear states), why.
 
 Remaining: pump, weight, history, add a baby, household settings, sign in.
 
-Reports: day, week, month, Day starts at, and History's "Reports ›" header.
+Reports: day (top and scrolled), week, month, Day starts at, and History's
+"Reports ›" header. Cases: 25 h day, 23 h day, Day starts at 8 AM vs midnight.
 
 ## Readings and flag copy
 
